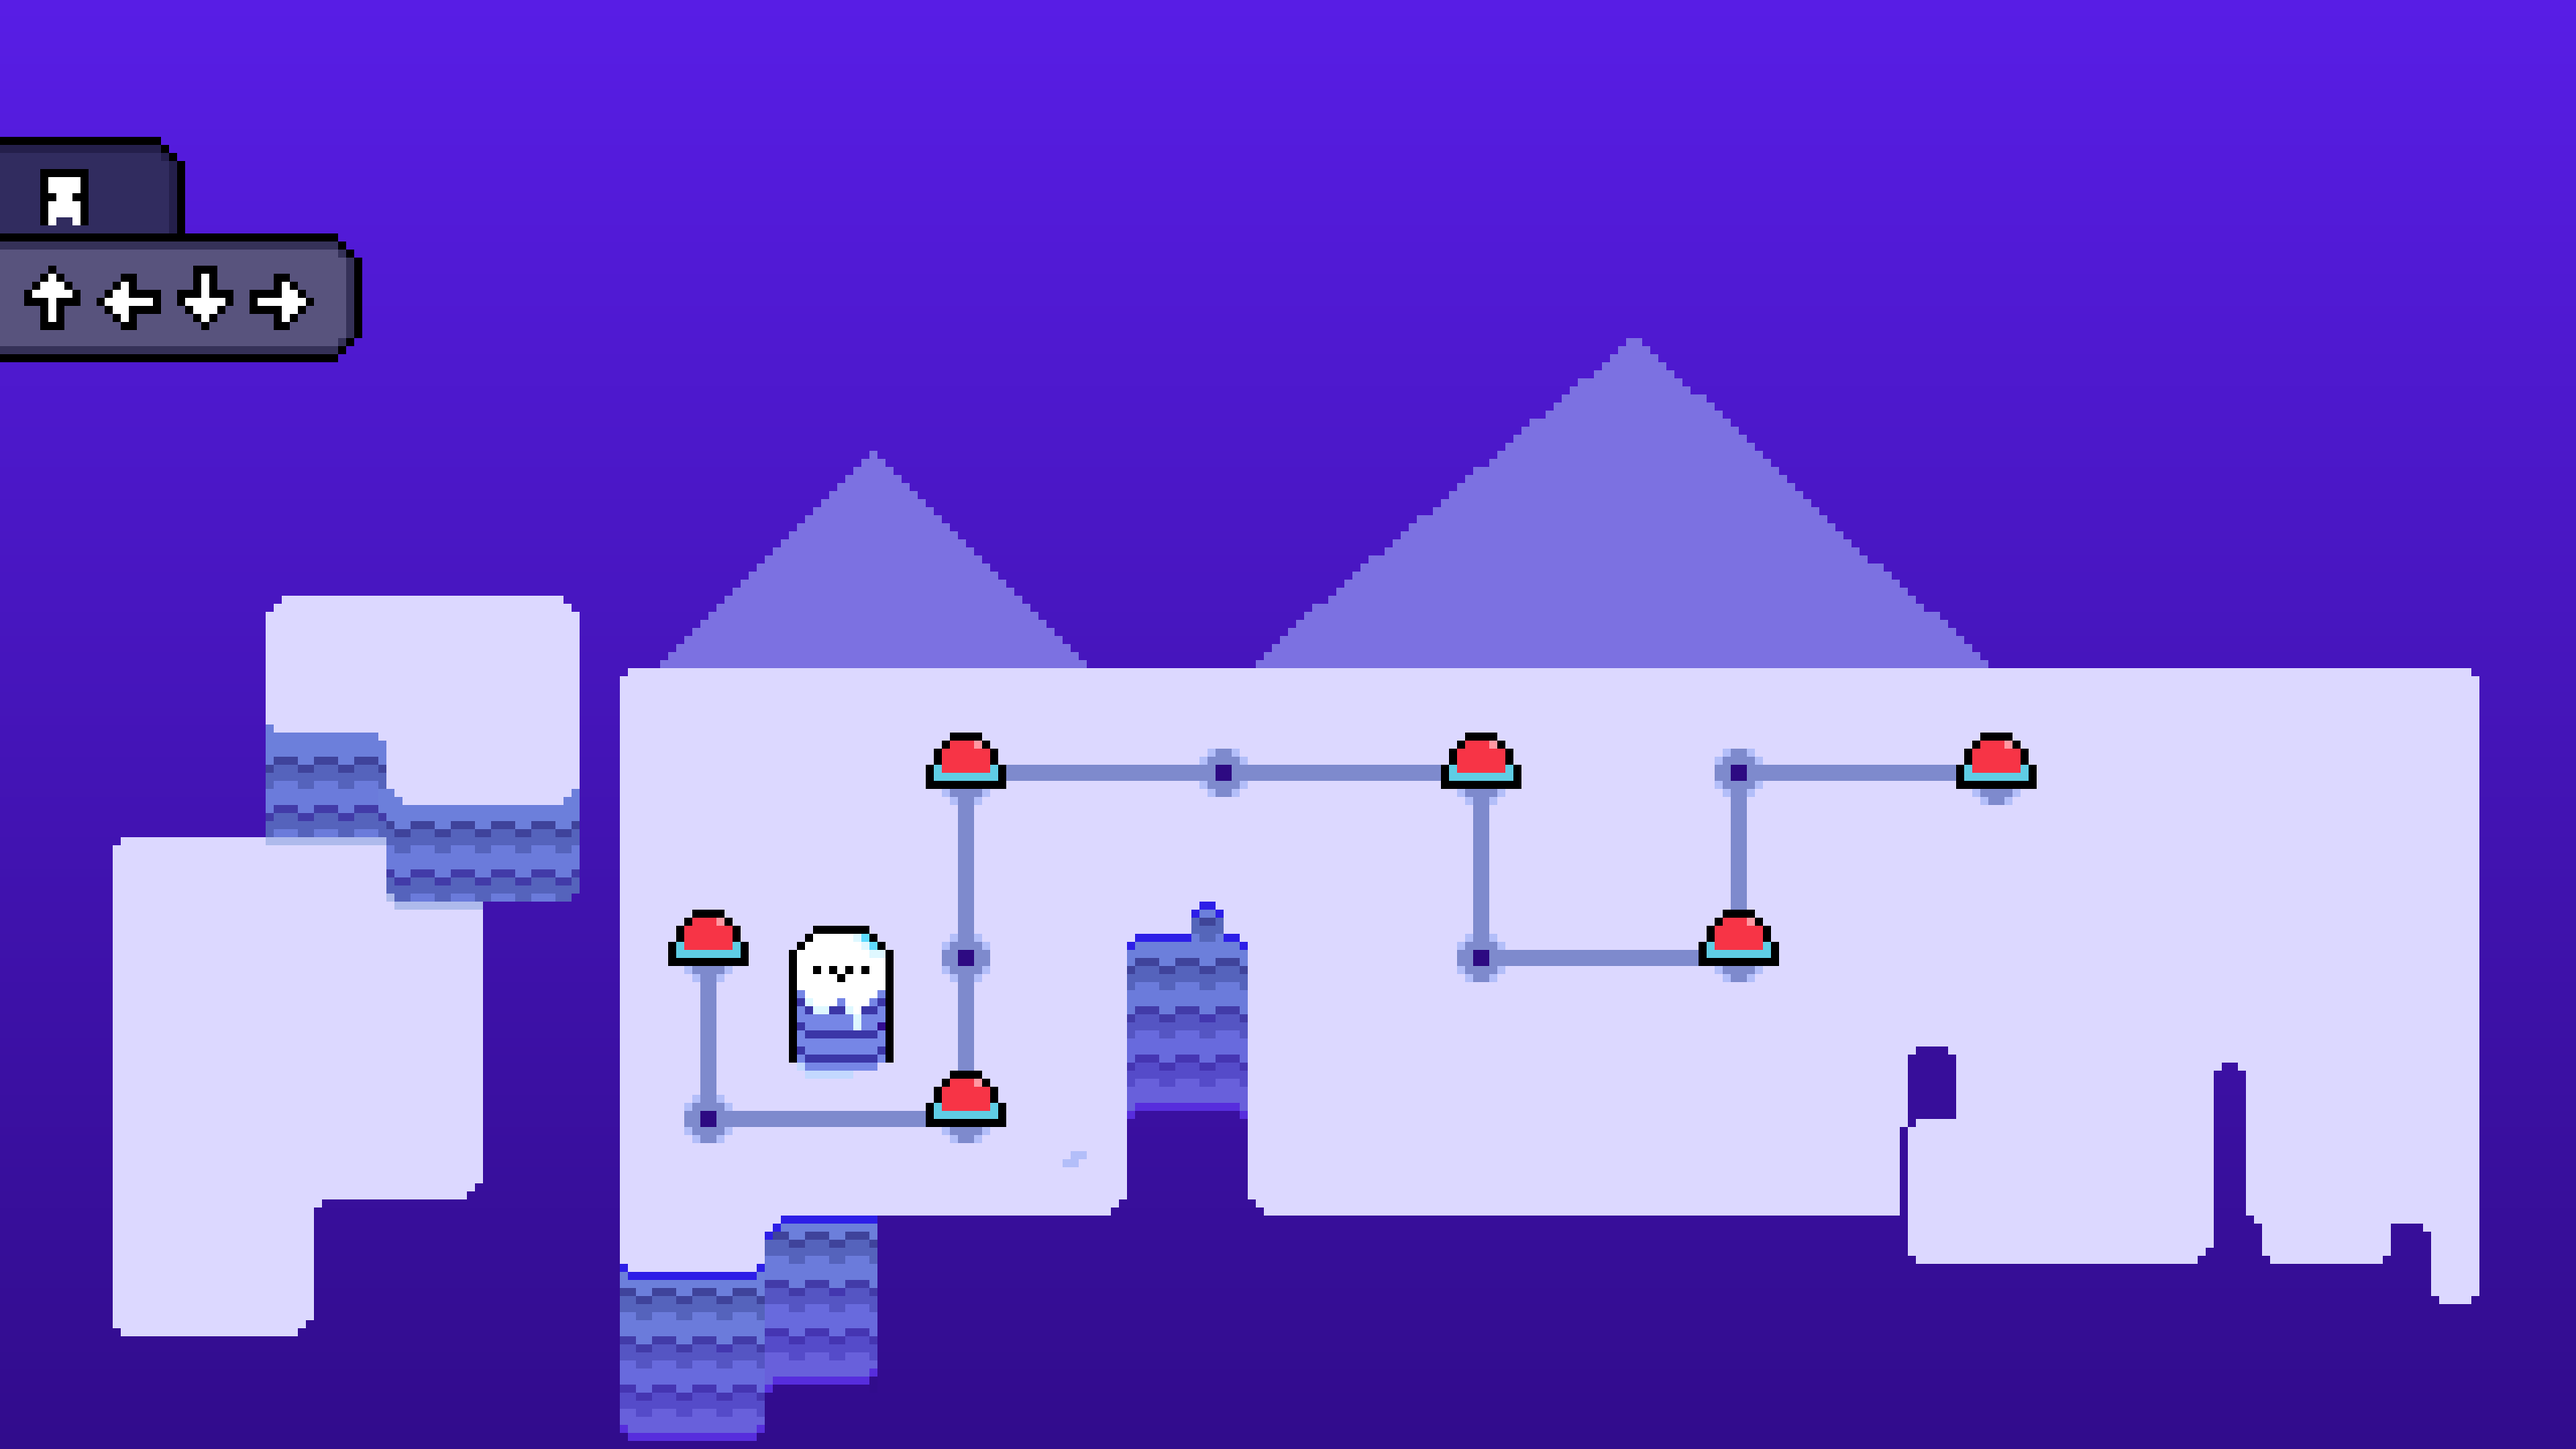
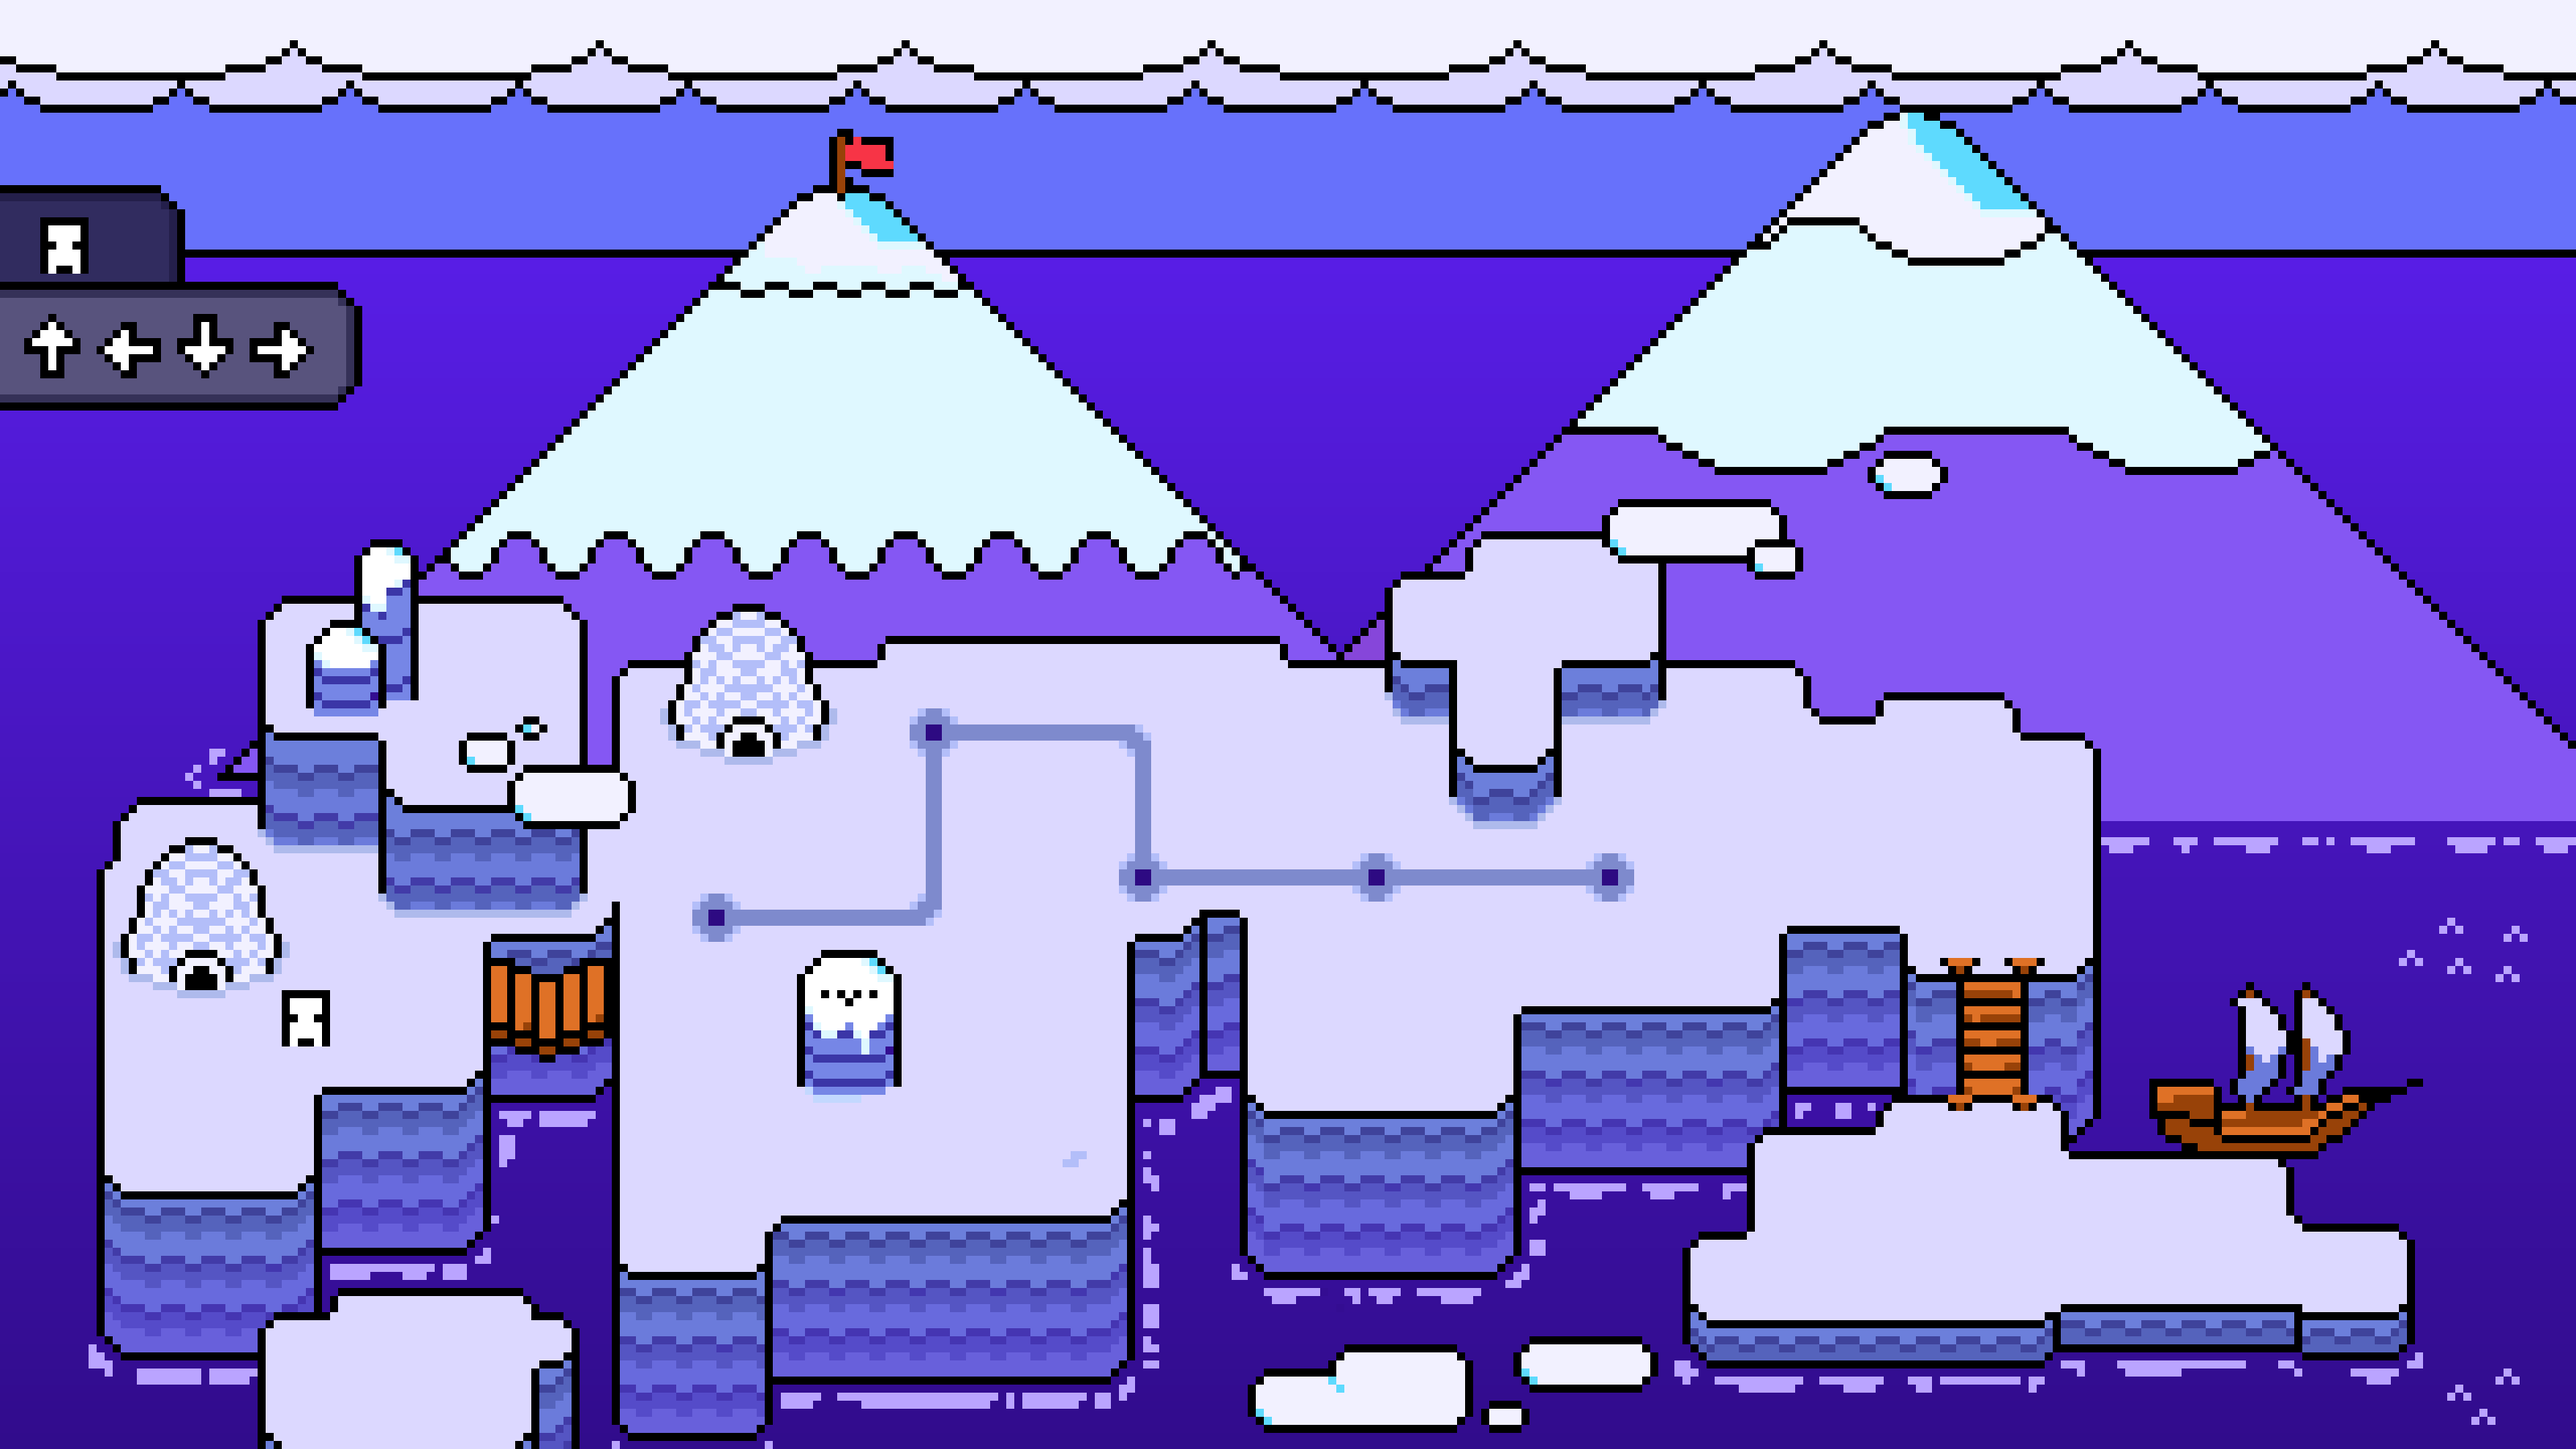
feat: implementação de nova classe GameObject, representando elementos visuais do mapa e classe Vector2 não finalizada, responsável pelo posicionamento individual de cada botão de navegação

diff --git a/src/main/resources/templates/portuguese.html b/src/main/resources/templates/portuguese.html
@@ -1,27 +1,37 @@
 <!DOCTYPE html>
 <html>
-<head>
-<meta charset="UTF-8">
-<title>Área de Estudo de Português</title>
-</head>
+	<head>
+		<meta charset="UTF-8">
+		<link rel="stylesheet" th:href="@{/css/styles.css}">
+		<link rel="stylesheet" th:href="@{/css/study-map.css}">		
+		<title>Língua Portuguesa - Fases</title>
+	</head>
 <body>
 	
-	
+	<div class="map-background"></div>
 	<div>
 		<h1>Exercícios de Português</h1>
 			 
 		<a th:href="@{/studyarea/portuguese/level1}">
-			<div>
-				<button type="" alt="Level 1">Level 1</button>
+			<div id="btn1" class="map-button">			
 			</div>
 		</a>
 	
 		<a th:href="@{/studyarea/portuguese/level2}">
-			<div>
-				<button type="" alt="Level 2">Level 2</button>
+			<div id="btn2" class="map-button">			
 			</div>
 		</a>
 		
+		<a th:href="@{/studyarea/portuguese/level3}">
+			<div id="btn3" class="map-button">			
+			</div>
+		</a>
+		
+		<div class="game-card">
+			<div class="game-card-cover"></div>
+			<p>iniciar</p>
+			<a href="#">INICIAR</a>
+		</div>
 	</div>
 
 	
@@ -29,5 +39,16 @@
 	    <p>&copy; 2026 TeachStation. Todos os direitos reservados.</p>
 	    <p>Projeto desenvolvido para fins educacionais.</p>
 	</footer>
+	<script th:src="@{/js/map.js}"></script>
+	<script>
+		let botao1 = document.getElementById("btn1");
+		let botao2 = document.getElementById("btn2");
+		let botao3 = document.getElementById("btn3");
+		
+		let gameObject1 = new GameObject(botao1, new Vector2(550, 350));
+		let gameObject2 = new GameObject(botao2, new Vector2(616, 377));
+		let gameObject3 = new GameObject(botao3, new Vector2(885, 377));
+		
+	</script>
 </body>
 </html>

diff --git a/src/main/resources/static/css/study-map.css b/src/main/resources/static/css/study-map.css
@@ -1,0 +1,61 @@
+.map-button {
+	background-image: url('../images/button.png'); 
+	z-index: 5; 
+	position: absolute;
+	width: 70px;
+	height: 35px;
+}
+
+.game-card {
+	position: absolute;
+	width: 25vh;
+	height: 30vh;
+	display: flex;
+	align-items: center;
+	justify-content: start;
+	flex-direction: column;
+	border-radius: 16px;
+	border: 2px solid var(--cor-roxo);
+	background-color: var(--cor-branco);
+	box-shadow: 0 8px 30px rgba(0, 0, 0, 0.08);
+	gap: 13px;
+	overflow: hidden;
+	transform: translateZ(0);
+}
+
+.game-card-cover {
+	width: 100%;
+	background-image: linear-gradient(135deg, var(--cor-azul), var(--cor-roxo));
+	border-top-left-radius: 5px;
+	border-top-right-radius: 5px;
+	border-bottom: 3px solid var(--cor-borda);
+	height: 20%;
+	margin-bottom: 20px;
+} 
+
+.game-card a{
+	background-image: linear-gradient(135deg, var(--cor-azul), var(--cor-roxo));
+	color: var(--cor-branco);
+	padding: 14px;
+	border-radius: 16px;
+	width: 45%;
+	height: 17%;
+	text-align: center;
+	text-decoration: none;	
+	font-size: 15px;
+	font-weight: 700;
+}
+
+.map-background {
+	padding-top: 80px;
+	padding-bottom: 80px;
+	position: absolute; 
+	top: 0;
+	left: 0;
+	width: 100%;
+	height: 100%;
+	background-image: url('../images/prototipo.png'); 
+	background-size: cover; 
+	background-position: center; 
+	z-index: -1; 
+}

diff --git a/src/main/resources/static/js/map.js b/src/main/resources/static/js/map.js
@@ -1,0 +1,66 @@
+// representar pontos no espaço 
+// conceito importante do CSS -> Ele faz uso de um plano cartesiano cujo ponto (0,0) é no canto superior esquerdo da tela, então 
+// provavelmente só faremos uso de valores negativos de Y nos botões e positivos de X  
+
+let windowWidth = screen.width;
+let windowHeight = screen.height;
+
+class GameObject{
+	
+	constructor(element, position){
+		this.element = element;
+		this.position = position;
+		this.element.style.position = "absolute";
+		this.setPosition(position);
+			
+	}
+	
+	setPosition(vector2){
+		this.element.style.transform = `translate(${vector2.x}px, ${vector2.y}px)`;
+	}
+}
+
+class Vector2{
+	constructor(x, y){
+		this.x = x;
+		this.y = y;
+	}
+	
+	getX(){
+		return this.x;
+	}
+	
+	setX(x){
+		if (Number.isFinite(x))	{
+			this.x = x;
+		} else {
+			return;
+		}
+	}
+	
+	getY(){
+			return this.y;
+		}
+		
+	setY(y){
+		if (Number.isFinite(y)){
+			this.y = y;	
+		} else {
+			return;
+		}
+	}
+		 
+	getSpacePosition(){
+		return new Vector2(this.x, this.y);
+	}
+	
+	getDistance(p1, p2){
+		//d = raíz de (x2² - x1²) + (y2² - y2²)
+		return Math.sqrt(Math.pow(p2.x - p1.x, 2) + Math.pow(p2.y - p1.y, 2));
+	}
+	
+	
+	// o que eu vou precisar -> método de settar posição e método de pegar distância 
+	
+	
+}

diff --git a/src/main/resources/templates/studyarea.html b/src/main/resources/templates/studyarea.html
@@ -1,9 +1,13 @@
 <!DOCTYPE html>
 <html>
 <head>
-<meta charset="UTF-8">
-<title>Área de Estudo</title>
+	<meta charset="UTF-8">
+	<link rel="stylesheet" th:href="@{/css/styles.css}">
+	<link rel="stylesheet" th:href="@{/css/study-map.css}">
+	<script th:src="@{/js/map.js}"></script>
+	<title>Área de Estudos</title>
 </head>
+	
 <body>
 	<h1>Escolha sua área de estudo:</h1>
 	

diff --git a/src/main/resources/static/css/styles.css b/src/main/resources/static/css/styles.css
@@ -393,7 +393,7 @@ body {
     left: 0;
     width: 100%;
     height: 100%;
-    background-image: url('../imagens/prototipo.png'); 
+    background-image: url('../images/prototipo.png'); 
     background-size: cover; 
     background-position: center; 
     filter:grayscale(10%);
